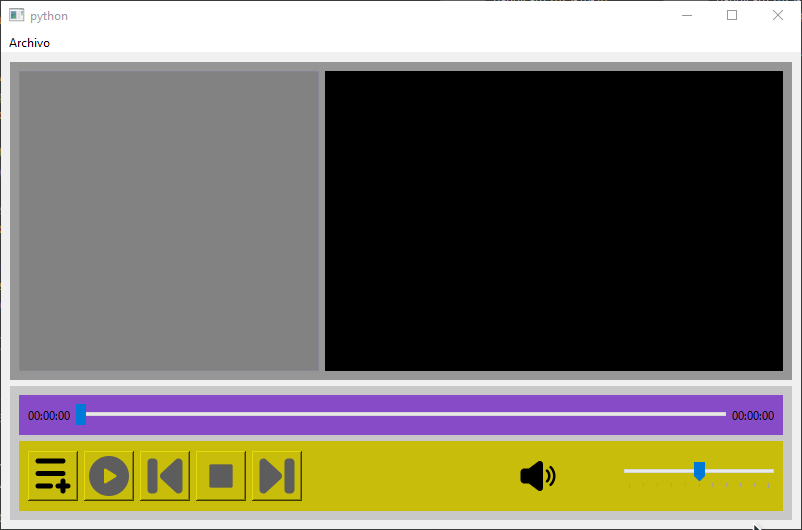
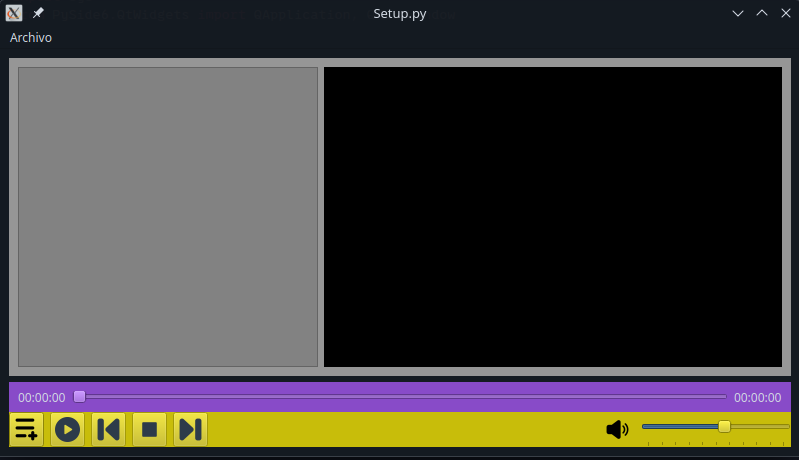
ui: cambie margenes y tamaños de los controles

diff --git a/Interfaz/Ui.py b/Interfaz/Ui.py
@@ -67,12 +67,25 @@ class Interfaz_reproductor(object):
 
 
 ####### widget inferior (controles y sliders)
+        # variables para los controles
+        margen_bot = 0
+        tam_btn = 35
+        tam_icon = tam_btn - 10
+        margen_btn = 0
+        h_sld_tiempo = 30
+        margen_sld_tiempo = 0
+        spacec = 0
+
+        # variables para los controles
         self.wdg_inferior = QWidget()
-        self.wdg_inferior.setMinimumHeight(134)
-        self.wdg_inferior.setMaximumHeight(134)
+        # self.wdg_inferior.setMinimumHeight(tam_btn + (margen_btn*2) + h_sld_tiempo + (margen_sld_tiempo*2))
+        print("tam bot", (tam_btn + (margen_btn*2) + h_sld_tiempo + (margen_sld_tiempo*2)))
+        self.wdg_inferior.setMaximumHeight(tam_btn + (margen_btn*2) + h_sld_tiempo + (margen_sld_tiempo*2)+spacec)
         # le damos css temporal para ver que se vayan creando bien
         self.wdg_inferior.setStyleSheet("background-color: rgb(200, 200, 200);")  # Color claro
         self.layout_wdg_inferior = QVBoxLayout(self.wdg_inferior)
+        self.layout_wdg_inferior.setContentsMargins(margen_bot, margen_bot, margen_bot, margen_bot)
+        self.layout_wdg_inferior.setSpacing(spacec)
 
         # creamos los widget para el controles del reproductor e informacion del video
 
@@ -80,7 +93,7 @@ class Interfaz_reproductor(object):
         self.wdg_info = QWidget()
         # le damos css temporal para ver que se vayan creando bien
         self.wdg_info.setStyleSheet("background-color: rgb(136, 75, 200);")
-        self.wdg_info.setMaximumHeight(40)
+        self.wdg_info.setMaximumHeight(h_sld_tiempo + (margen_sld_tiempo*2))
         self.layout_info = QHBoxLayout(self.wdg_info)
 
         # creamos los elementos mencionados informacion del video
@@ -103,12 +116,11 @@ class Interfaz_reproductor(object):
         # le damos css temporal para ver que se vayan creando bien
 
         self.wdg_controles.setStyleSheet("background-color: rgb(200, 189, 10);")
-        self.wdg_controles.setMaximumHeight(70)
+        self.wdg_controles.setMaximumHeight(tam_btn + (margen_btn*2))
         self.layout_controles = QHBoxLayout(self.wdg_controles)
+        self.layout_controles.setContentsMargins(margen_btn, margen_btn, margen_btn, margen_btn)
 
         # creamos los botones de control
-        tam_btn = 50
-        tam_icon = 40
         self.btn_lp = QPushButton()
         self.btn_lp.setFixedSize(tam_btn, tam_btn)
         self.btn_lp.setIcon(QIcon(":/anadir-lista.png"))
@@ -140,7 +152,9 @@ class Interfaz_reproductor(object):
         spacer.setSizePolicy(QSizePolicy.Expanding, QSizePolicy.Preferred)
 
         self.lbl_volumen = QLabel()
-        self.lbl_volumen.setFixedSize(100, tam_btn)
+        self.lbl_volumen.setAlignment(Qt.AlignmentFlag.AlignCenter)
+        self.lbl_volumen.setFixedSize(tam_btn, tam_btn)
+        # self.lbl_volumen.setStyleSheet("background-color: #ff0000;")
         pix =QPixmap(":/volumen_1.png")
         max_icon = tam_icon
         scaled_pix = pix.scaled(
@@ -156,7 +170,7 @@ class Interfaz_reproductor(object):
         self.vol_bar.setValue(50) # valor inicial
         self.vol_bar.setTickInterval(10)  # marcas cada 10 unidades
         self.vol_bar.setTickPosition(QSlider.TicksBelow)  # marcas abajo
-        self.vol_bar.setFixedSize(150, 30)
+        self.vol_bar.setFixedSize(150, tam_btn)
 
         # agregamos los botones al layout
         self.layout_controles.addWidget(self.btn_lp)

diff --git a/README.md b/README.md
@@ -1,8 +1,12 @@
 # Video Player
 
-reproductor `v2`: fork de https://github.com/crostow/reproductor_v2
+**reproductor v2** : fork de https://github.com/crostow/reproductor_v2
 
 ![](info_md/capture2.png)
 
 ## Notas
 
+CAMBIOS A LA INTERFAZ
+
+- he creado variables para asignar el tamaño de los botones de los controles para que se ajuste a los widgets que los contienen (tamaños, espaciado y margenes)
+- centrar el icono del volumen
